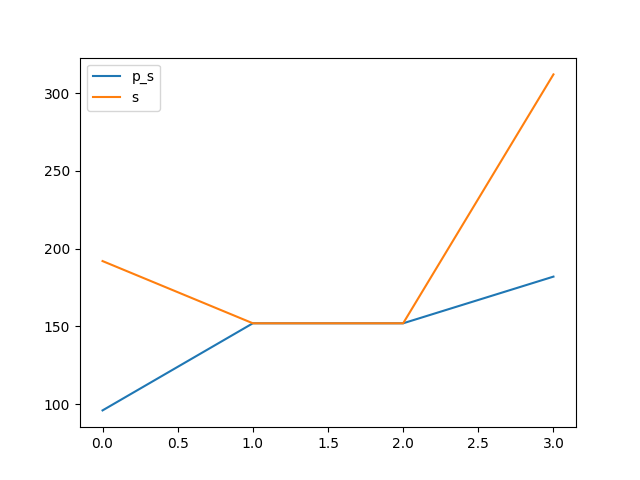
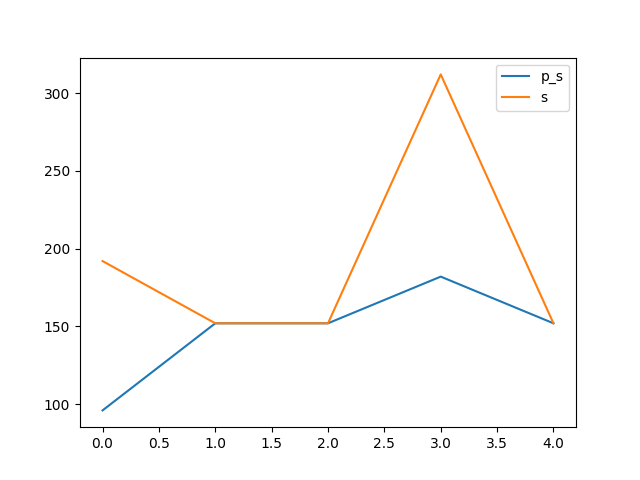
0x0004

diff --git a/benchmark.md b/benchmark.md
@@ -8,9 +8,11 @@ Synthesising 0x0002 pexact:152 r=3 exact:152 r=3
 
 Synthesising 0x0003 pexact:182 r=4 exact:312 r=4
 
+Synthesising 0x0004 pexact:152 r=3 exact:152 r=3
+
 ![image1](benchmark_r.png?)
 
 ![image2](benchmark_s.png?)
 
- avg_p_s=145.5 avg_s=202.0 avg_pr=3.5 avg_r=3.5
+ avg_p_s=146.8 avg_s=192.0 avg_pr=3.4 avg_r=3.4
 
